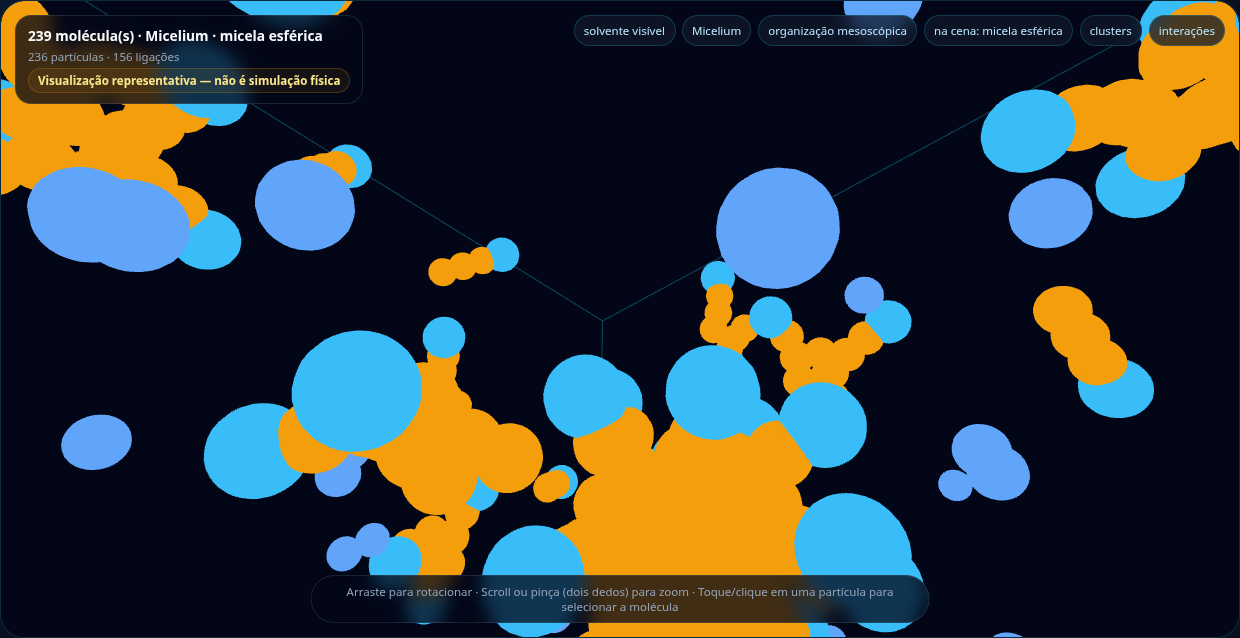
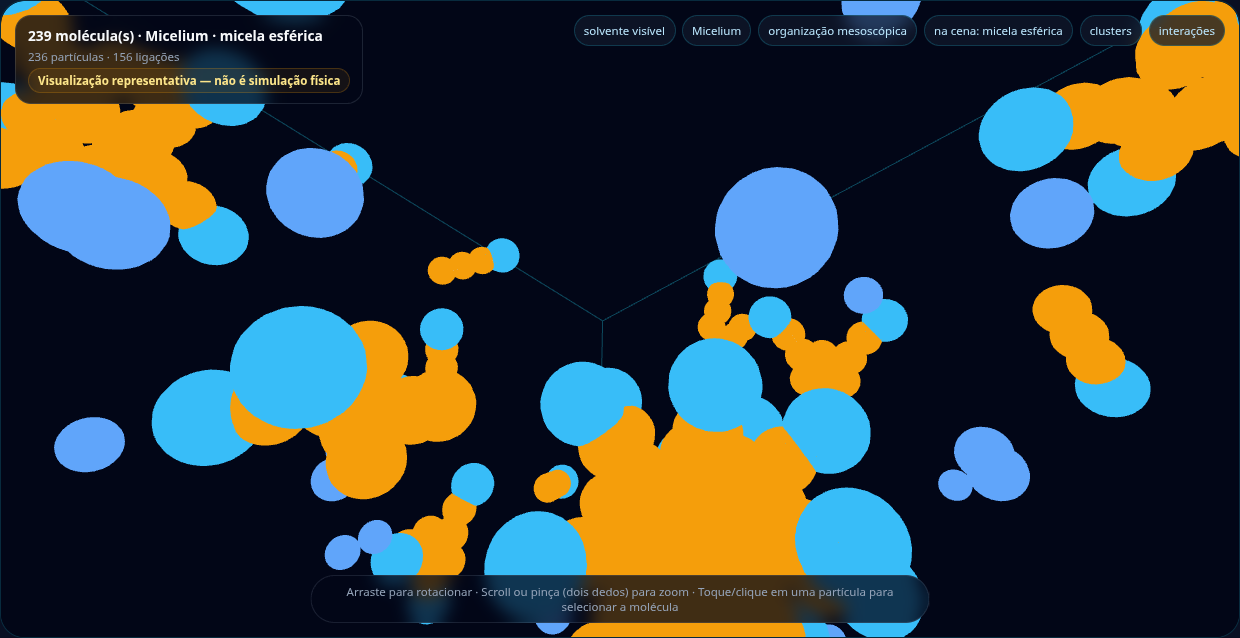
docs: exemplos documentados — resultados após a revisão independente
Capturas e trilhas refeitas com o código final: CTAB em "agregado em
reorganização" com 0 % (cilindro não confirmado pela forma medida), AOT,
bicamada e vesícula estáveis ao longo da trilha. Suítes, nota do tempo da
bicamada sob carga, critério de cilindro como razão de variâncias, vesícula
sem lúmen, confirmação só nos exemplos como decisão do autor e menores
abertos da revisão.

diff --git a/documentacao/validacao/WEB_LITE_V1.md b/documentacao/validacao/WEB_LITE_V1.md
@@ -245,23 +245,27 @@ Natureza de cada condição: **experimental** (medida no estudo), **protocolo** 
 
 | Suíte | Resultado |
 |---|---|
-| Backend completo (`bash scripts/testar_backend.sh`, rodado em 4 partes para caber no tempo do terminal) | **2028 aprovados**, 28 pulados, 1 falha esperada (xfail) |
-| Só os exemplos (`tests/test_exemplos_*.py`) | 102 aprovados (66 + 22 de geometria + 14 de estabilidade e forma medida) |
+| Backend completo (`bash scripts/testar_backend.sh`, rodado em 4 partes para caber no tempo do terminal) | **2033 aprovados**, 28 pulados, 1 falha esperada (xfail) — ver nota |
+| Só os exemplos (`tests/test_exemplos_*.py`) | 107 aprovados (66 + 22 de geometria + 19 de estabilidade e forma medida) |
 | Frontend (`bash scripts/testar_frontend.sh`) | **82 aprovados**, build sem erro |
 | Host (segredos, `.env`, produção) | **28 aprovados** |
 
+**Nota sobre o tempo:** numa das execuções, `test_tempo_por_trecho[dppc_bicamada_hidratacao]` falhou com 16,16 s (limite 15 s). A carga média da máquina era 5,8, com um Chrome aberto pedindo trechos ao mesmo backend. Todos os exemplos ficaram mais lentos ao mesmo tempo. Repetido logo depois, passou com 12,50 s, e o código desse caminho não mudou entre as execuções. Em máquina carregada, a bicamada pode passar do limite.
+
 Os testes de geometria medem as coordenadas do backend depois de 3 trechos, sem usar a previsão:
 - **SDS:** cabeças para fora.
-- **CTAB:** agregado alongado, cabeças longe do eixo, salicilato na interface.
+- **CTAB:** cabeças longe do maior eixo, salicilato na interface, agregado mais alongado que a esfera do SDS. Ser mais alongado que o SDS não basta para confirmar um cilindro (ver 13.4).
 - **Bicamada DPPC:** ≥ 70 % das cabeças nas duas faces, com caudas no meio. Medido: 100 % em 1, 3 e 5 trechos.
 - **Vesícula DPPC:** cabeças internas < caudas < cabeças externas.
 - **AOT:** cabeças para dentro, água no centro.
 - **DPPC e AOT:** as duas caudas de cada molécula ficam do mesmo lado.
 
 Testes de estabilidade e de forma medida (`tests/test_exemplos_estabilidade.py`):
-- **CTAB e AOT, 6 trechos seguidos:** em cada trecho, fração organizada > 50 % e rótulo igual à forma documentada. A tela mostra o card de cada trecho, não só o do 3º.
+- **AOT, 6 trechos seguidos:** em cada trecho, fração organizada > 50 % e rótulo "micela inversa". A tela mostra o card de cada trecho, não só o do 3º.
+- **CTAB, 6 trechos seguidos:** nenhum trecho mostra "micela cilíndrica/wormlike" sem que a forma medida sem a previsão seja "agregado alongado". Quando não há confirmação, a fração organizada é 0.
+- **Bicamada e vesícula:** o rótulo da cena só aparece quando a forma medida concorda (lamelar ou casca).
 - **Forma medida sem a previsão:** bicamada → "agregado lamelar (duas folhas)"; vesícula → "casca fechada de duas folhas"; SDS, CTAB e AOT nunca recebem rótulo de membrana.
-- **Coordenadas sintéticas:** bicamada e vesícula fechada são reconhecidas. Taça aberta, micela, micela inversa, monocamada e orientação ao acaso não são.
+- **Coordenadas sintéticas:** bicamada e vesícula fechada são reconhecidas. Não são reconhecidas: taça aberta (incluindo taça de 80 % da esfera), estrela de seis direções, feixe estreito de 8 moléculas, micela, micela inversa, monocamada, orientação ao acaso e coordenada inválida (NaN).
 
 ### 13.3 Tempo por trecho (backend, container de teste)
 
@@ -281,30 +285,35 @@ Arquivos em `documentacao/validacao/exemplos_documentados/`, quatro por exemplo:
 - `*_cena.png`: captura da cena 3D no Chrome, cerca de 60 s depois de o card mostrar a mistura (2º trecho);
 - `*_cards.png`: cards Previsto e Observado no mesmo momento;
 - `*_trilha.txt`: o card Observado lido a cada 5 s por mais 150 s (3º a 5º trecho); só as mudanças são gravadas;
-- `*_corte.png`: corte 2D das coordenadas do backend após 3 trechos. Pedido no formato da tela; CTAB e AOT foram refeitos com o código atual.
+- `*_corte.png`: corte 2D das coordenadas do backend após 3 trechos. Pedido no formato da tela; CTAB e AOT foram refeitos com o código final.
 
 Um agente separado avaliou a primeira rodada de capturas. Correções feitas a partir dessa avaliação e da segunda rodada, cada uma com teste que falhou antes e passou depois:
 
 1. **Bicamada e vesícula DPPC apareciam como glóbulos.** Agora um molde visual de membrana atua só nesses dois exemplos e está declarado nas notas do card. A forma da membrana na cena é imposta pelo molde, não emergente.
 2. **Fração organizada 0 % e "agregado em reorganização" no DPPC e no AOT.** O analisador exigia c/CMC ≥ 1, e nesses exemplos a CMC não se aplica, embora orientação (0,89–0,99), núcleo (1,0) e forma passassem. Agora, só nos exemplos cuja CMC não se aplica, a geometria decide sozinha. Fora deles, a exigência de c/CMC continua.
 3. **Textos contraditórios no card.** A validação dizia "vem de CPP/c/CMC" nas demonstrações, e "não validado" aparecia ao lado de "previsão validada" no SDS. A nota de CMC do DPPC e do AOT estava ausente.
-4. **CTAB e AOT com 0 % no 2º trecho.** A captura (≈ 60 s) cai no 2º trecho, e os testes só olhavam o 3º. Uma sonda de 8 trechos mostrou duas causas:
-   - **AOT:** com dois núcleos, duas micelas inversas (20 + 19 moléculas) se fundiam no 2º trecho. O haltere reprovava a forma, e do 3º trecho em diante havia uma micela só, de 39. O exemplo agora usa um núcleo, e uma micela de 39 forma-se já no 1º trecho.
-   - **CTAB:** com 27 moléculas, o cilindro-alvo das forças gerais é curto (meio comprimento 1,65 para raio 1,17), e a atração isotrópica o encurtava ainda mais. A razão entre os eixos das caudas ficava em 1,6–2,4, com reprovação no 2º trecho (1,58 para limite 1,6). As moléculas do agregado agora ficam espaçadas por igual ao longo do eixo, até o mesmo meio comprimento, só nesse exemplo. Depois disso, a menor razão em 8 trechos é 1,97.
-   - **Resultado:** os dois ficam organizados nos 8 trechos da sonda e em todos os trechos da trilha do navegador.
-5. **Bicamada e vesícula medidas como "aproximadamente esférico".** A forma medida sem a previsão ganhou um detector de membrana que usa só as coordenadas:
-   - **Lamelar:** cadeias alinhadas (S ≥ 0,75), cabeças nas duas faces e mais longe do plano médio que a própria cauda.
-   - **Casca fechada:** caudas numa casca oca, cabeças dentro e fora, cadeias radiais, caudas nas seis direções principais.
-   - **Validação:** o primeiro critério da casca aceitava orientação ao acaso no teste sintético; o critério radial corrigiu isso. Medido nas cenas: bicamada S = 0,94–0,98; SDS, CTAB e AOT S ≤ 0,54.
+4. **CTAB e AOT com 0 % no 2º trecho.** A captura (≈ 60 s) cai no 2º trecho, e os testes só olhavam o 3º. Uma sonda de 8 trechos (`.runtime/sonda/`, fora do repositório) mostrou duas causas:
+   - **AOT:** com dois núcleos, duas micelas inversas (20 + 19 moléculas) se fundiam no 2º trecho. O haltere reprovava a forma, e do 3º trecho em diante havia uma micela só, de 39. O exemplo agora usa um núcleo: uma micela de 39 forma-se já no 1º trecho e fica organizada em todos os trechos.
+   - **CTAB:** o critério de cilindro reprovava no 2º trecho por pouco, com razão de **variâncias** 1,58 para o limite 1,6. Em eixos, é uma razão de só ~1,26. Com 27 moléculas, o cilindro-alvo das forças gerais é curto (meio comprimento 1,65 para raio 1,17). A oscilação era o sintoma; a causa era o critério aceitar um agregado quase redondo como cilindro (item 6).
+5. **Bicamada e vesícula medidas como "aproximadamente esférico".** A forma medida sem a previsão ganhou um detector de membrana que usa só as coordenadas, com no mínimo 12 moléculas:
+   - **Lamelar:** cadeias alinhadas (S ≥ 0,75); cabeças nas duas faces e mais longe do plano médio que a própria cauda; caudas espalhadas no plano (variância lateral > 2 × a normal).
+   - **Casca fechada:** caudas numa casca oca; cabeças dentro e fora; cadeias radiais; nenhuma abertura sem caudas maior que 45°.
+   - **Medido nas cenas:** bicamada com S = 0,94–0,98 e variância lateral 7,4 × a normal; vesícula com abertura máxima de 41°; SDS, CTAB e AOT com S ≤ 0,54.
+6. **Revisão independente do branch (crítico): o CTAB aparecia como "micela cilíndrica/wormlike" 100 % organizado, com a forma medida "aproximadamente esférico".**
+   - **Regra nova:** nos exemplos documentados, cilindro, bicamada e vesícula só recebem o rótulo da cena quando a forma medida sem a previsão concorda (alongado, lamelar ou casca). Sem isso, o agregado fica "agregado em reorganização" e não conta na fração organizada.
+   - **Efeito no CTAB:** passa a 0 % em todos os trechos.
+   - **Reversão:** um espaçamento axial tentado antes foi revertido. Ele só espalhava os centros de cauda, a mesma grandeza que o critério mede.
+   - **Detector endurecido** a partir de achados importantes da mesma revisão: um feixe estreito virava lamelar, e uma taça de 80 % ou uma estrela viravam casca.
+   - **Pedidos sem exemplo** mantêm o comportamento anterior (ver 13.5).
 
 Card Observado nas capturas finais (rótulo · fração · forma medida), com a trilha até ~250 s:
 
 | Exemplo | Rótulo na cena | Fração organizada | Forma medida sem a previsão |
 |---|---|---|---|
-| SDS | micela esférica | 61,5 % → 82,7 % (aos 111 s) | pré-agregado hidrofóbico → agregado orientado |
-| CTAB + salicilato | micela cilíndrica/wormlike | 100,0 % em toda a trilha | agregado aproximadamente esférico |
+| SDS | micela esférica | 61,5 % → 82,7 % (aos 121 s) | pré-agregado hidrofóbico → agregado orientado |
+| CTAB + salicilato | agregado em reorganização (cilindro não confirmado) | 0,0 % em toda a trilha | agregado aproximadamente esférico |
 | DPPC bicamada | bicamada plana/lamelar | 100,0 % em toda a trilha | agregado lamelar (duas folhas) |
-| DPPC vesícula | vesícula/bicamada fechada | 66,7 % → 63,9 % (aos 225 s) | casca fechada de duas folhas |
+| DPPC vesícula | vesícula/bicamada fechada | 66,7 % → 63,9 % (aos 200 s) | casca fechada de duas folhas |
 | AOT | micela inversa | 100,0 % em toda a trilha | agregado aproximadamente esférico |
 
 **O que a cena confirma, exemplo por exemplo:**
@@ -312,17 +321,22 @@ Card Observado nas capturas finais (rótulo · fração · forma medida), com a 
 | Exemplo | Funciona visualmente? | Evidência e ressalva |
 |---|---|---|
 | SDS | sim, como várias micelas pequenas | Cabeças para fora. A forma é calculada (previsão validada). Vários agregados de 6–19 moléculas, nem todos organizados. |
-| CTAB + salicilato | **parcialmente** | Salicilato na interface e cabeças longe do eixo. O agregado é só levemente alongado: no navegador e no corte, parece um bloco, não um bastão. A forma medida sem a previsão diz "aproximadamente esférico". |
+| CTAB + salicilato | **não** (cilindro não confirmado) | Salicilato na interface e cabeças longe do maior eixo, mas o agregado é um bloco só levemente alongado, no navegador e no corte. A forma medida diz "aproximadamente esférico", e o card mostra "agregado em reorganização" com 0 %, sem afirmar o cilindro. |
 | DPPC bicamada | sim, com forma imposta | Duas folhas, caudas no meio, medida como lamelar. A forma vem do molde visual, não de auto-organização. |
-| DPPC vesícula | sim no corte, não na captura | Corte e forma medida mostram casca de duas folhas. Na captura do navegador, o agregado ficou fora do enquadramento. A folha externa é esparsa: 24 das 36 moléculas formam o agregado medido (≈ 64–67 %). A forma vem do molde. |
+| DPPC vesícula | com limitações sérias | Corte e forma medida mostram casca de duas folhas, mas:<br>• não há lúmen: as cabeças internas ficam a 0,9 do centro, e o corte parece uma bola de cabeças com coroa radial;<br>• a folha externa é esparsa, e só 24 das 36 moléculas formam o agregado medido (≈ 64–67 %, 0 % no 1º trecho);<br>• na captura do navegador, o agregado ficou fora do enquadramento;<br>• a forma vem do molde. |
 | AOT | sim | Uma micela inversa: cabeças e água no centro, caudas para fora, estável em todos os trechos. |
 
 ### 13.5 Limitações e pendências
 
 - **Pendência científica do SDS com sal (não corrigida).** O ajuste de sal do motor faz o SDS virar "micela cilíndrica" a partir de 0,08 mol/L de força iônica. A literatura situa a transição esfera→bastão acima de cerca de 0,2–0,3 mol/L de NaCl. Por isso o exemplo fica limitado a ≤ 0,07 mol/L, como limite técnico (spec §10).
-- **CTAB: cilindro curto (não corrigido).** O critério de cilindro do analisador mede só as caudas (maior eixo > 1,6 × o segundo) e passa com margem. Contando todas as contas, porém, os desvios ao longo dos eixos diferem só ~1,3 vez, e a cena não se lê como micela vermiforme. Com 27 CTAB visuais, um bastão longo ficaria oco. Endurecer o critério deixaria o exemplo sempre em 0 %. Opções para o autor: mais moléculas visuais no exemplo (cena mais pesada) ou critério mais rigoroso (o exemplo deixa de aparecer como formado).
-- **Vesícula mínima.** Com 36 lipídios visuais, a folha externa fica esparsa: no corte, as cadeias aparecem separadas, com aspecto de estrela, e só 24 moléculas entram no agregado medido. Uma vesícula real de 60–100 nm tem milhares de lipídios. A cena demonstra a ordem das camadas, não a densidade da casca (decisão do autor: documentar, sem aumentar o número de moléculas).
+- **CTAB: o exemplo não forma um cilindro visível (não corrigido).** O critério das caudas usa razão de variâncias 1,6 (~1,26 em eixos), e a forma medida sem a previsão não confirma alongamento. Com 27 CTAB visuais, um bastão longo ficaria oco. O card agora mostra "agregado em reorganização" com 0 %. O rótulo é honesto quanto a não haver cilindro, mas impreciso: o agregado está estável, não se reorganizando. Para o exemplo funcionar, opções para o autor: mais moléculas visuais no exemplo (cena mais pesada, hoje 27 de um teto de 240) ou um molde visual de cilindro, como o das membranas (forma imposta, declarada).
+- **Confirmação da forma medida só nos exemplos (decisão do autor).** Em pedidos comuns com previsão de cilindro ou bicamada, o rótulo continua vindo só do critério geométrico da previsão. Aplicar lá a mesma exigência quebra dois testes de `test_organization_geometry.py`: agregados de 20, 10 e 9 moléculas deixam de aparecer como "micela cilíndrica", e o mesmo ocorre na bicamada. O motor geral provavelmente também mostra essas formas sem confirmação.
+- **Vesícula mínima e sem lúmen.** Com 36 lipídios visuais, a folha externa fica esparsa: no corte, as cadeias aparecem separadas, com aspecto de estrela, e só 24 moléculas entram no agregado medido. As cabeças internas ficam a 0,9 do centro, sem a cavidade aquosa que define uma vesícula. Uma vesícula real de 60–100 nm tem milhares de lipídios. A cena demonstra a ordem das camadas, não a densidade da casca (decisão do autor: documentar, sem aumentar o número de moléculas).
 - **Membranas impostas.** Bicamada e vesícula vêm do molde visual. O detector de membrana confirma a geometria da cena, não que ela se formaria sozinha.
 - **Forma medida, classificação geral (menor, não corrigido).** Fora das membranas, o classificador geral ainda recebe orientação e núcleo calculados com o molde previsto. Só o detector de membrana é totalmente independente da previsão.
+- **Outros menores da revisão (não corrigidos):**
+  - o chip "na cena: …" não diz que a forma é de demonstração; isso aparece só no card Previsto;
+  - a forma medida dominante é escolhida pelo número de agregados, não de moléculas: no SDS, três pré-agregados vencem a micela de 19;
+  - os números da sonda de 8 trechos vêm de scripts fora do repositório (`.runtime/sonda/`).
 - **Enquadramento da câmera.** Na captura da vesícula, o agregado fica fora do quadro, e na do CTAB a câmera está colada no agregado. Os cortes 2D são a evidência geométrica confiável.
 - **Ainda aberto da tarefa 8 (menor):** o w0 no cartão do catálogo aparece sem formato pt-BR (10.5 em vez de 10,5).
